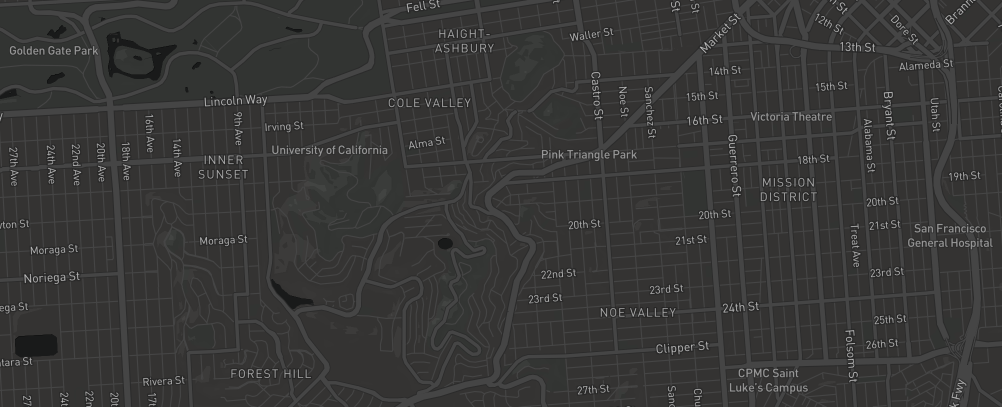
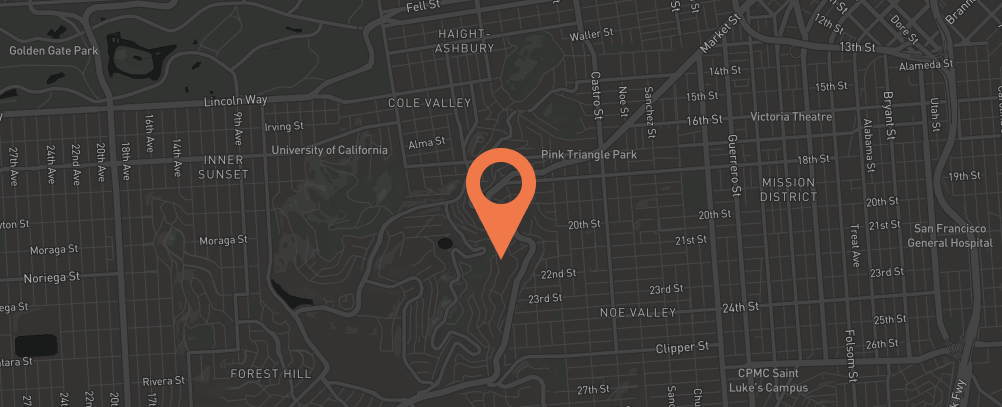
changed citymap img

Changed region(s): [[0.4641, 0.3538, 0.5569, 0.6486]]

diff --git a/contact-style.css b/contact-style.css
@@ -10,8 +10,9 @@ body {
 
 header {
     display: flex;
+    flex-direction: column;
     padding: 20px;
-    height: auto;
+    height: 400px;
     background: #C7DDEA;
 }
 
@@ -20,12 +21,12 @@ h2 {
     font-size: 50px;
     font-weight: 900;
     text-align: center;
-    margin-top: 140px;
     color: #000000;
 }
 
-.img_man {
-    
+.img-wrap {
+    margin-bottom: -24px;
+    justify-content: center;
 }
 
 .nav-bar {
@@ -33,17 +34,20 @@ h2 {
     flex-wrap: wrap;
     flex: 1;
     height: 68px;
-
+    
     background: #ffffff;
 }
 
 .nav-links {
+    display:flex;
     list-style: none;
-    display: inline-flex;
+    justify-content: space-evenly;
+    align-items: center;
+    padding: 0;
 }
 
 .nav-links li {
-    margin: 20px;
+
 }
 
 .nav-links li a {
@@ -51,6 +55,7 @@ h2 {
     font-style: normal;
     font-weight: 600;
     font-size: 17px;
+    text-align: center;
 }
 
 a {
@@ -74,7 +79,7 @@ a:hover {
 h3 {
         font-family: 'Frank Ruhl Libre', serif;
         font-size: 45px;
-        font-style: bold;
+        font-weight: 900;
         text-align: left;
         margin-top: 25px;
 
@@ -153,13 +158,22 @@ button {
 .main-bottom {
     display: flex;
     flex-wrap: wrap;
-    height: 450px;
-    background-image: url(https://github.com/emiagren/insurance-project/blob/master/img/citymap_img.png?raw=true);
+    background: url(https://github.com/emiagren/insurance-project/blob/master/img/citymap_img.png?raw=true) no-repeat;
+    background-position: center;
+    background-size: auto;
+    width: 100%;
+}
+
+.location-pin {
+    align-self: center; 
+    margin-top: 26px;   
+    margin-left: 56px;
 }
 
 .address-box {
+    padding: 22px;
     width: 100%;
-    height: 206px;
+    height: auto;
     margin-top: 45px;
     background-color: #fab131;
     box-shadow: 0px 4px 16px rgba(0, 0, 0, 0.1);
@@ -168,9 +182,6 @@ button {
 h4 {
     font-family: 'Frank Ruhl Libre', serif;
     text-align: left;
-    margin-top: 22px;
-    margin-left: 22px;
-    margin-bottom: 0px;
     font-size: 45px;
     font-weight: 900;
     color: #ffffff;
@@ -182,14 +193,7 @@ p {
     font-weight: 600;
     font-size: 12px;
     letter-spacing: -0.02em;
-    margin-left: 20px;
     color: #ffffff;
-}
-
-.location-pin {
-    align-self: center; 
-    margin-top: 26px;   
-    margin-left: 56px;
 }
 
 footer {

diff --git a/contact.html b/contact.html
@@ -9,11 +9,12 @@
 
 <body>
     <header>
-        <h2>Oh hello there!</h2>
+        <div class="h2-container">
+            <h2>Oh hello there!</h2>
+        </div>  
 
         <div class="img-wrap"  style="position: relative; left: 0; top: 0;">
-            <img class="img_baby"src="https://github.com/emiagren/insurance-project/blob/master/img/baby.png?raw=true" alt="Baby on mans head">
-            <img class="img_man" src="https://github.com/emiagren/insurance-project/blob/master/img/man.png?raw=true" alt="Man with baby">
+            <img class="img_manwithbaby"src=https://github.com/emiagren/insurance-project/blob/master/img/man_with_baby.png?raw=true alt="Man with baby">
         </div>
 
     </header>
